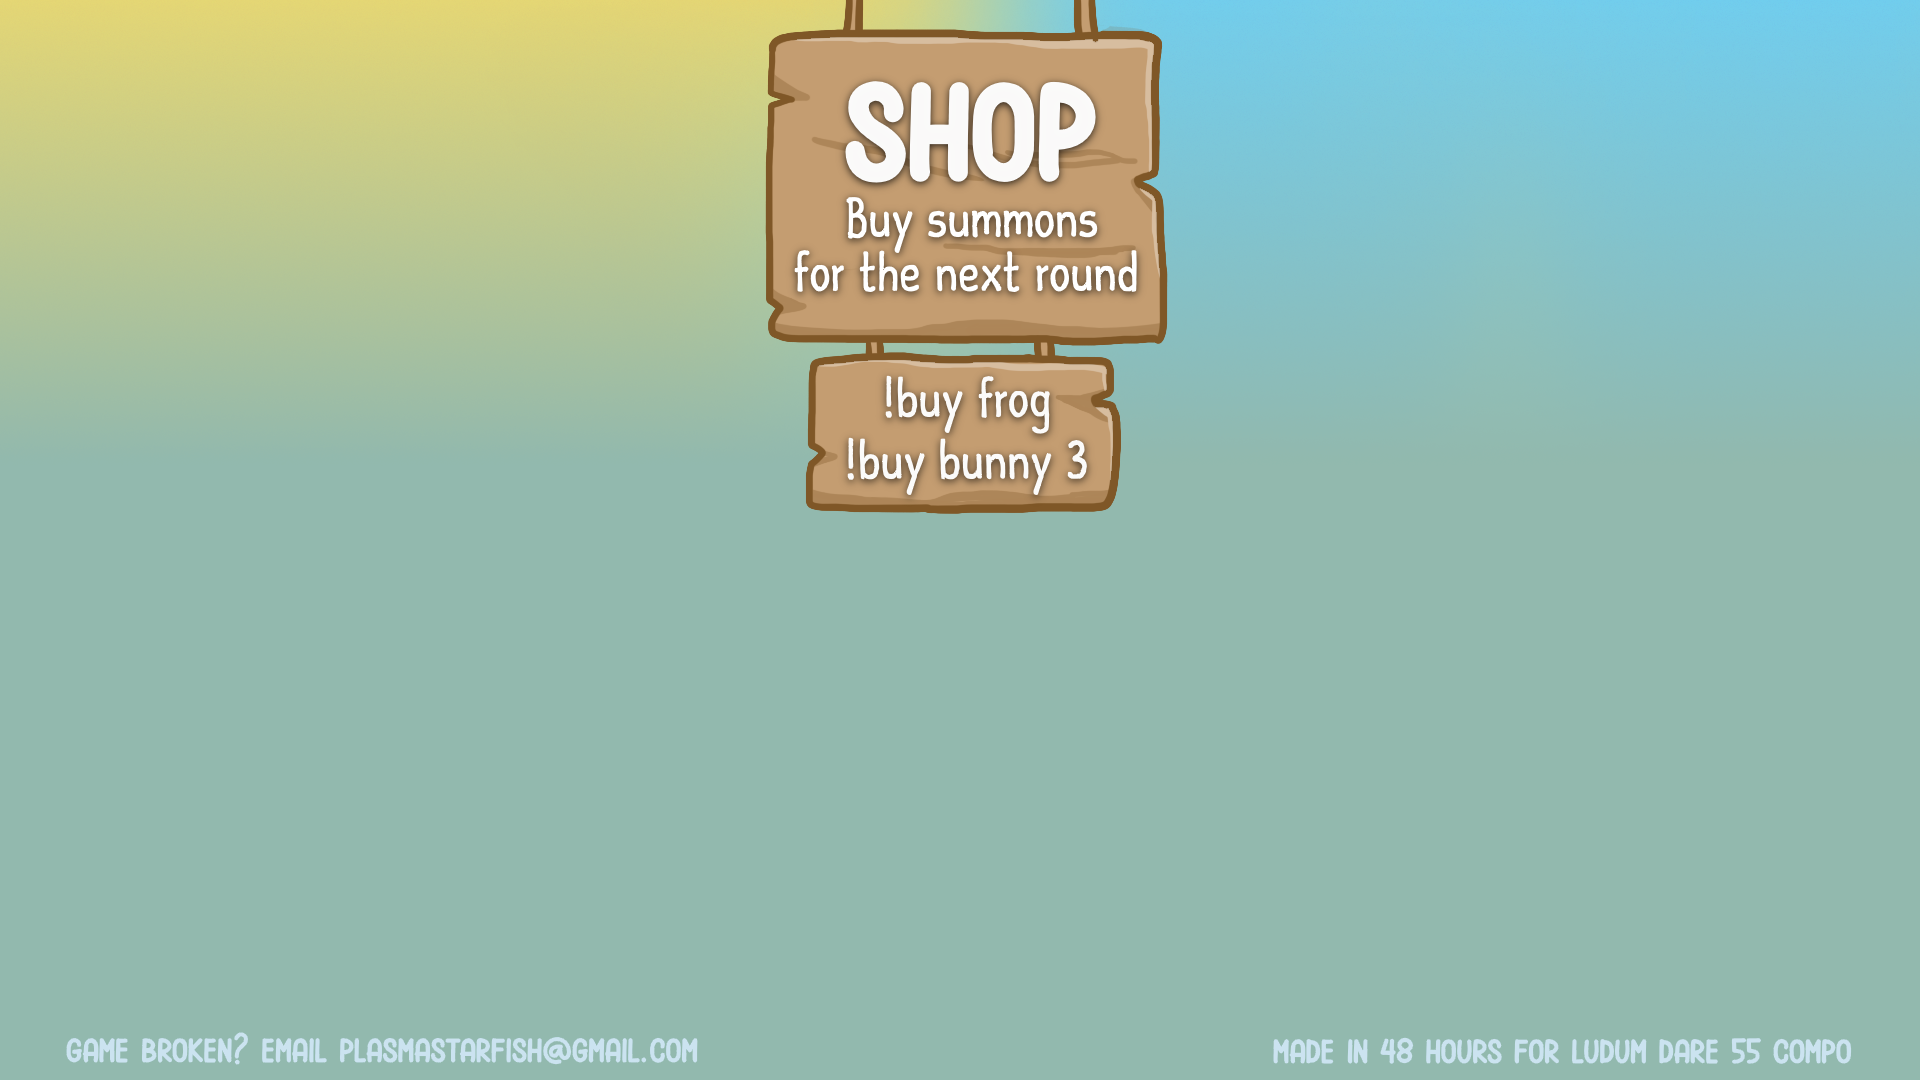
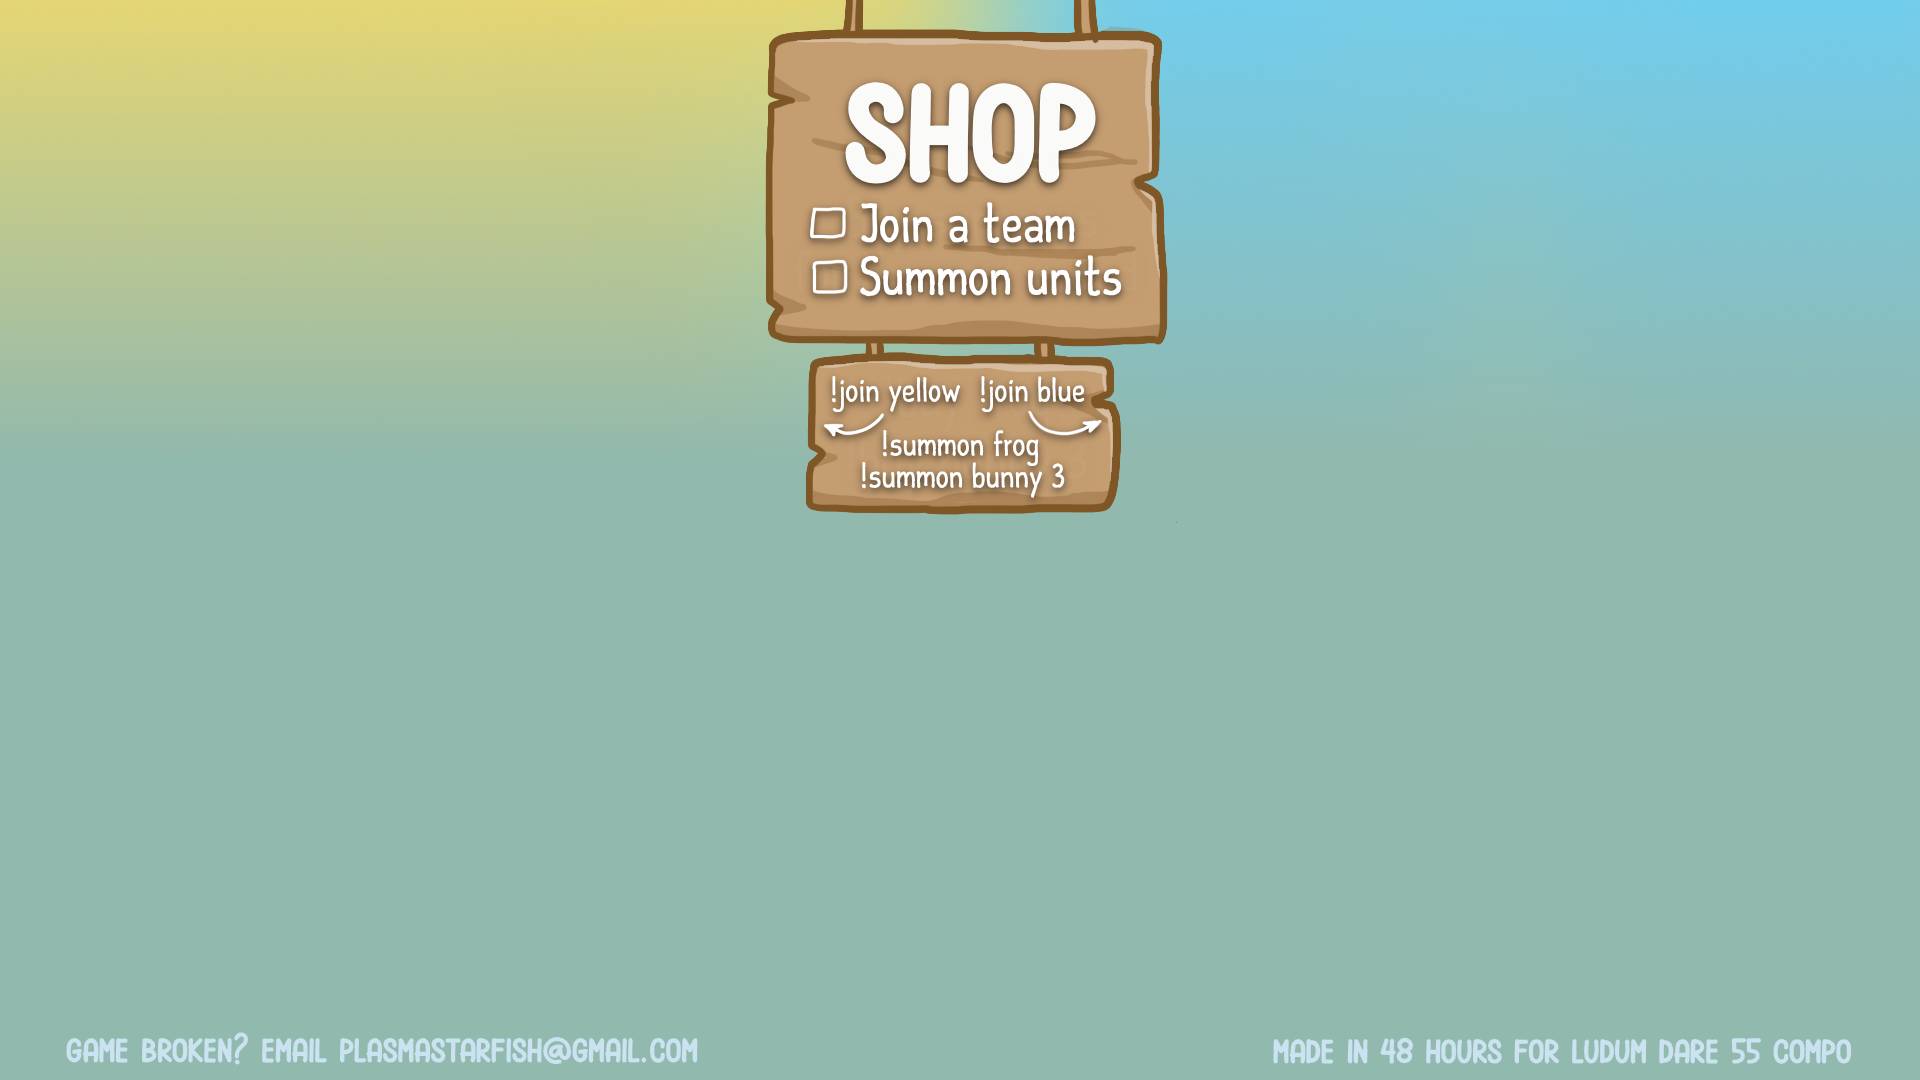
Buy -> Summon

Changed region(s): [[0.4062, 0.3056, 0.5938, 0.4583], [0.4062, 0.1833, 0.5938, 0.275]]

diff --git a/frame.py b/frame.py
@@ -329,7 +329,7 @@ class ShopFrame(Frame):
         if message.user not in self.game.teams[0] and message.user not in self.game.teams[1]:
             return  # ignore people who haven't joined a team
 
-        if split[0] == "buy" and len(split) in (2, 3):
+        if split[0] == "summon" and len(split) in (2, 3):
             creature_type = None
             for creature in TYPES:
                 if creature.NAME.lower() == split[1]:
